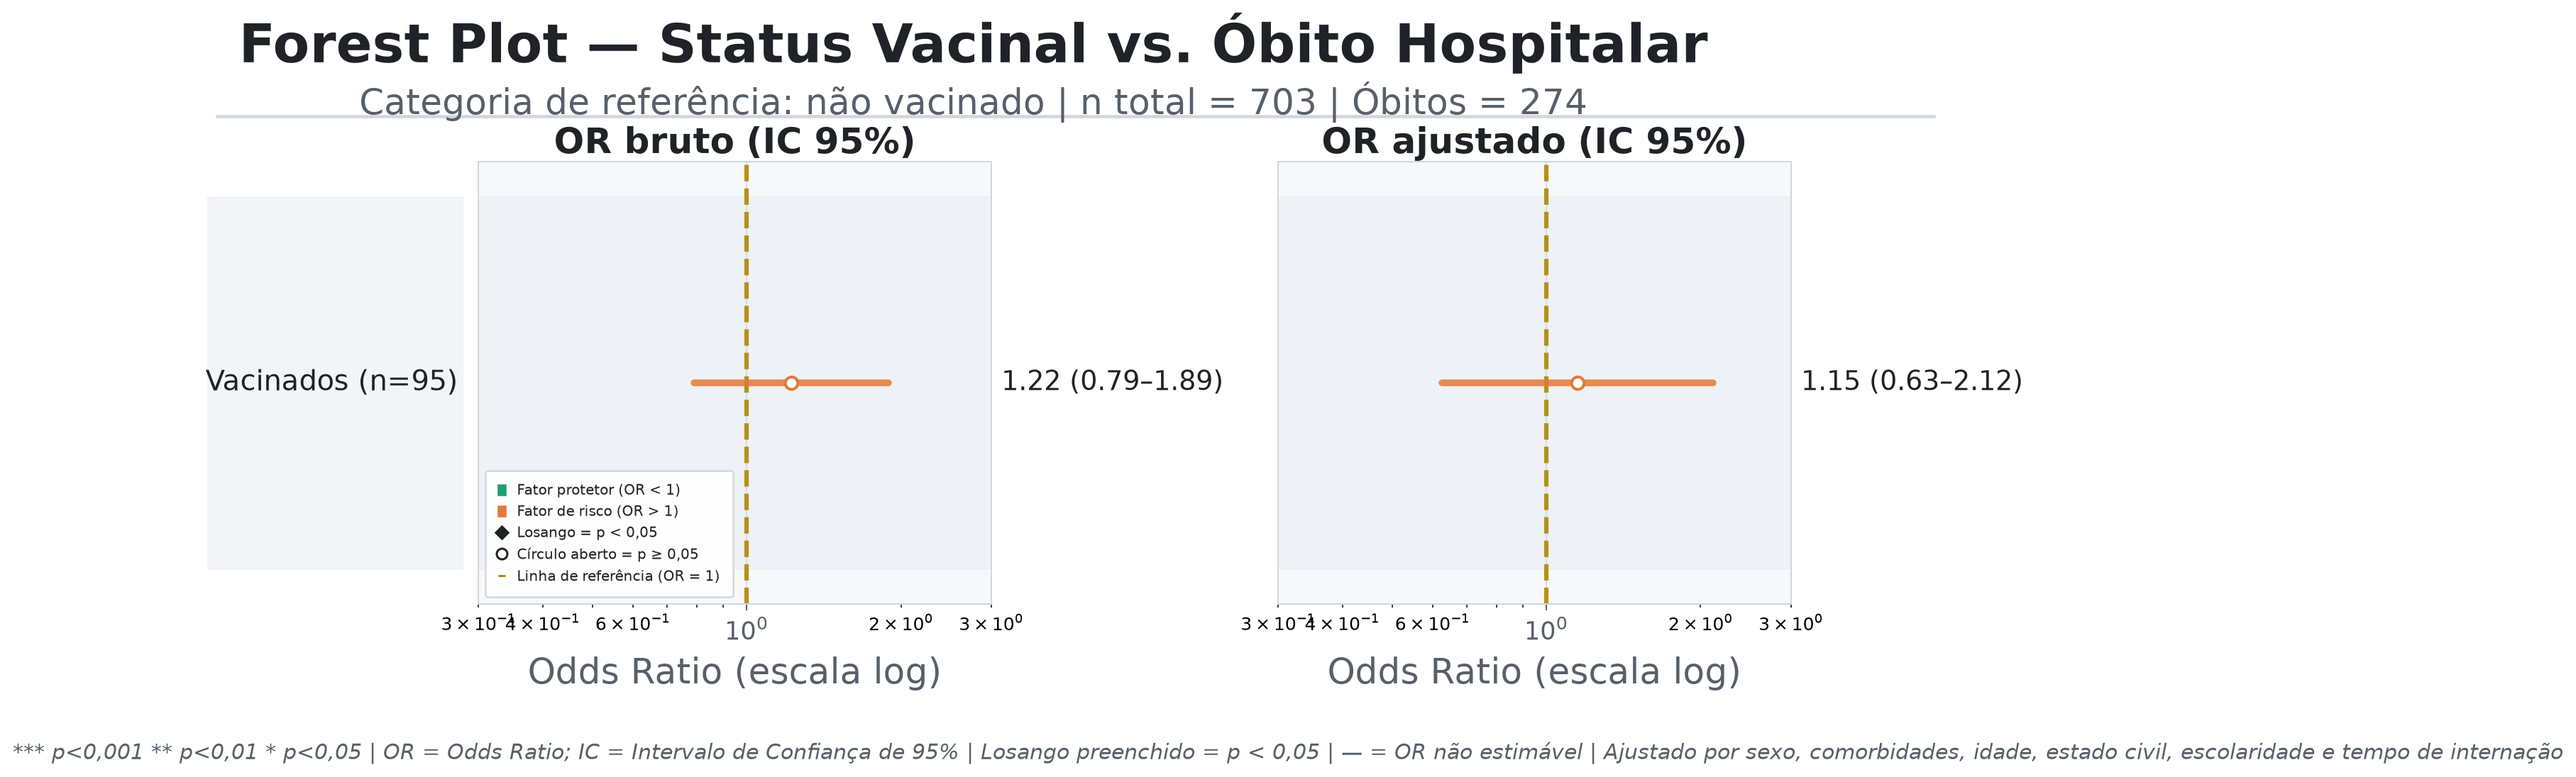
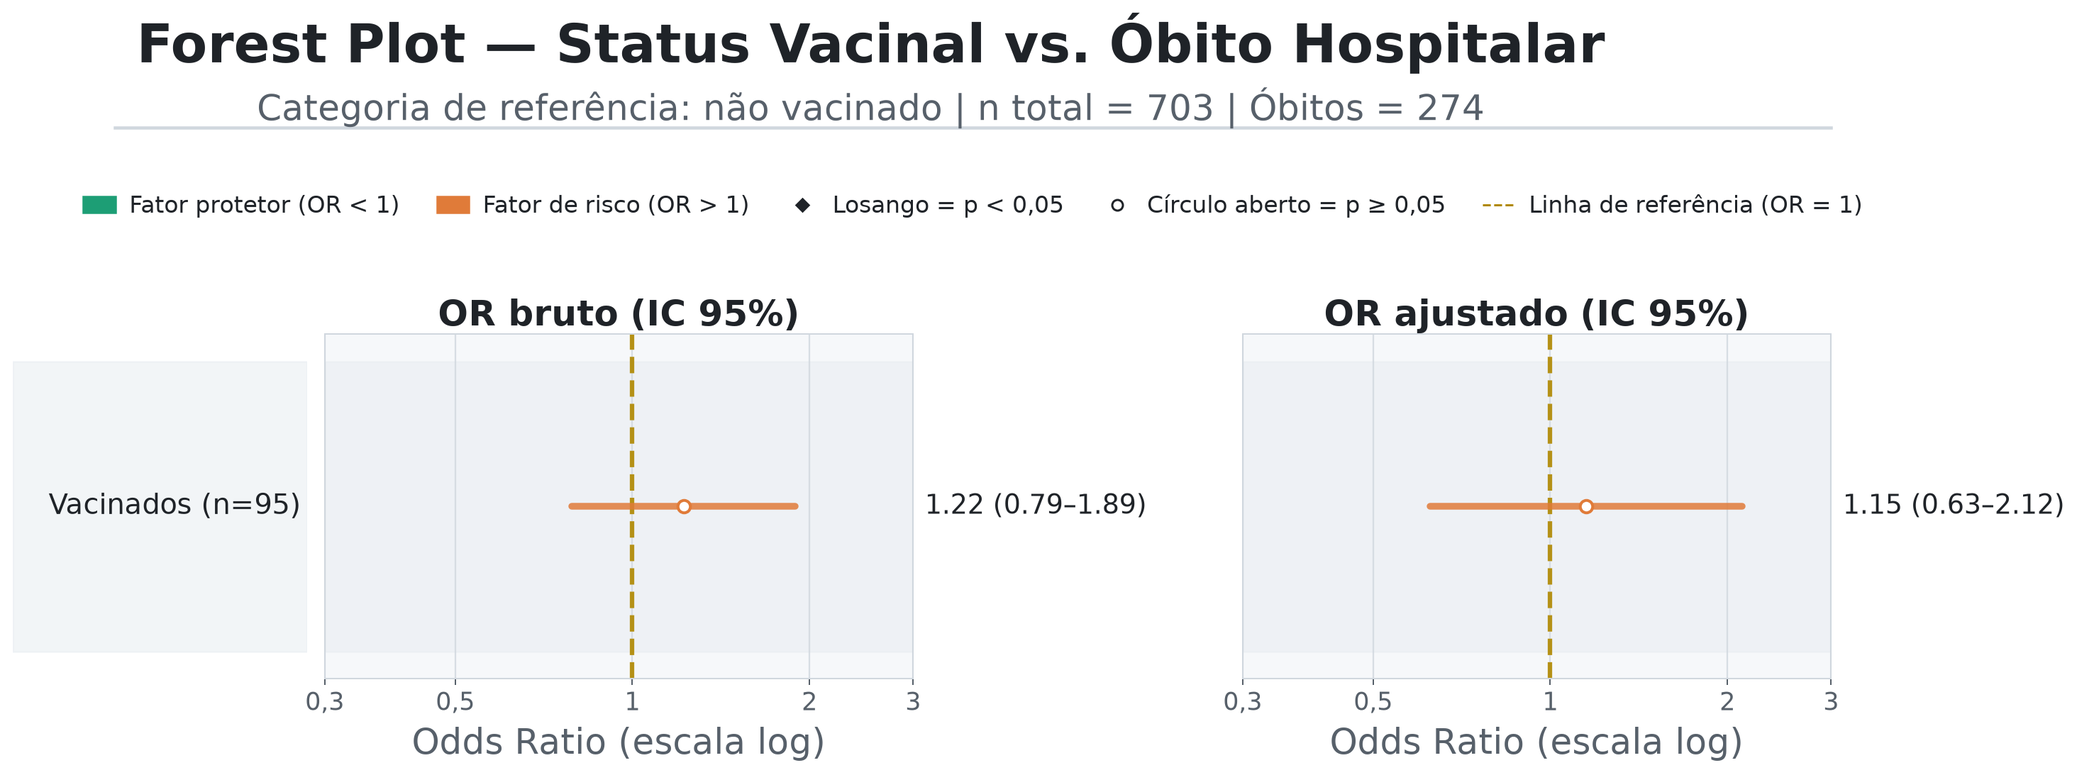
Fix forest plot layout: log-axis ticks, legend placement, drop footnote
- Replaces the default log-scale locator (which produced overlapping
  tick labels like 3x10^-1, 4x10^-1, 6x10^-1) with explicit ticks at
  0.3/0.5/1/2/3.
- Moves the legend out of the OR panel (where it sat inside empty
  space, lower-left) to a single horizontal row between the reference
  subtitle and the OR panel titles, with room for all 5 items side by
  side.
- Removes the italic footnote below the chart.

Claude-Session: https://claude.ai/code/session_01XH5oXC7ooCrnQVbPhtjYiY

diff --git a/14b_forest_plot_vacinado_pt.py b/14b_forest_plot_vacinado_pt.py
@@ -5,6 +5,7 @@ import numpy as np
 import pandas as pd
 import matplotlib.pyplot as plt
 import matplotlib.patches as mpatches
+import matplotlib.ticker as mticker
 from matplotlib.lines import Line2D
 import statsmodels.api as sm
 import statsmodels.formula.api as smf
@@ -186,6 +187,14 @@ def draw_panel(ax, col_or, col_lo, col_hi, col_p, title, xlim):
     ax.tick_params(axis="x", colors=SUBTEXT, labelsize=14)
     ax.set_ylim(n_rows - 0.5, -0.5)
     ax.set_xlim(*xlim)
+
+    # Ticks explícitos no eixo log — evita a sobreposição dos rótulos
+    # automáticos (3×10⁻¹, 4×10⁻¹, 6×10⁻¹, ...) do LogLocator padrão.
+    ticks_principais = [t for t in [0.3, 0.5, 1, 2, 3] if xlim[0] <= t <= xlim[1]]
+    ax.set_xticks(ticks_principais)
+    ax.set_xticklabels([f"{t:g}".replace(".", ",") for t in ticks_principais])
+    ax.xaxis.set_minor_locator(mticker.NullLocator())
+
     ax.set_xlabel("Odds Ratio (escala log)", fontsize=20,
                   color=SUBTEXT, labelpad=6)
     ax.set_title(title, fontsize=20, fontweight="bold", color=TEXT, pad=5)
@@ -212,13 +221,11 @@ legend_elements = [
     Line2D([0], [0], color=GOLD, linewidth=1.2,
            linestyle="--", label="Linha de referência (OR = 1)"),
 ]
-ax_or.legend(handles=legend_elements, fontsize=8, frameon=True,
-             edgecolor=BORDER, facecolor=BG, labelcolor=TEXT,
-             loc="lower left", framealpha=0.97,
-             borderpad=0.9, handlelength=0.5)
+# Deixa espaço acima dos eixos para título, subtítulo e legenda
+fig.subplots_adjust(left=0.08, right=0.97, bottom=0.14, top=0.74, wspace=0.04)
 
 # ── Título principal ────────────────────────────────────────────────────
-fig.text(0.50, 1.14,
+fig.text(0.50, 1.30,
          "Forest Plot — Status Vacinal vs. Óbito Hospitalar",
          ha="center", va="top",
          fontsize=30, fontweight="bold", color=TEXT)
@@ -226,20 +233,17 @@ fig.text(0.50, 1.14,
 # ── Subtítulo dinâmico ───────────────────────────────────────────────────
 subtitle = (f"Categoria de referência: não vacinado | "
             f"n total = {n_total} | Óbitos = {n_deaths}")
-fig.text(0.50, 1.02, subtitle,
+fig.text(0.50, 1.17, subtitle,
          ha="center", va="top", fontsize=20, color=SUBTEXT)
 fig.add_artist(plt.Line2D(
-    [0.13, 0.97], [0.96, 0.96],
+    [0.13, 0.97], [1.10, 1.10],
     transform=fig.transFigure, color=BORDER, linewidth=1.8))
-fig.text(0.03, -0.16,
-         "*** p<0,001 ** p<0,01 * p<0,05 | "
-         "OR = Odds Ratio; IC = Intervalo de Confiança de 95% | "
-         "Losango preenchido = p < 0,05 | — = OR não estimável | "
-         "Ajustado por sexo, comorbidades, idade, estado civil, "
-         "escolaridade e tempo de internação",
-         color=SUBTEXT, fontsize=12, style="italic")
 
-plt.tight_layout(rect=[0, 0.03, 1, 1.94])
+# ── Legenda (uma única linha, entre a referência e os painéis de OR) ──────
+fig.legend(handles=legend_elements, fontsize=13, frameon=False,
+           labelcolor=TEXT, loc="upper center", ncol=5,
+           bbox_to_anchor=(0.55, 1.02), columnspacing=1.6,
+           handlelength=1.4, handletextpad=0.6)
 plt.savefig(OUTPUT_PNG, dpi=180, bbox_inches="tight", facecolor=BG)
 print(f"Gráfico salvo em: {OUTPUT_PNG}")
 plt.show()
